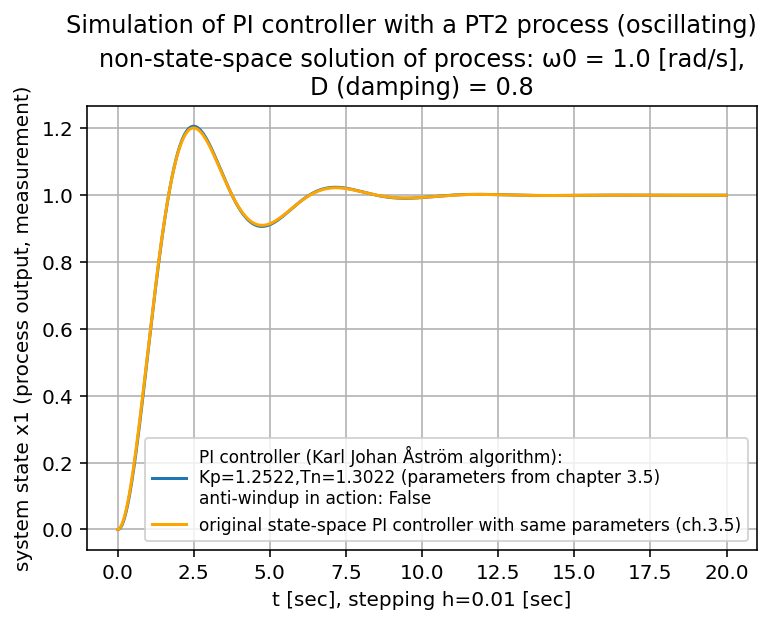
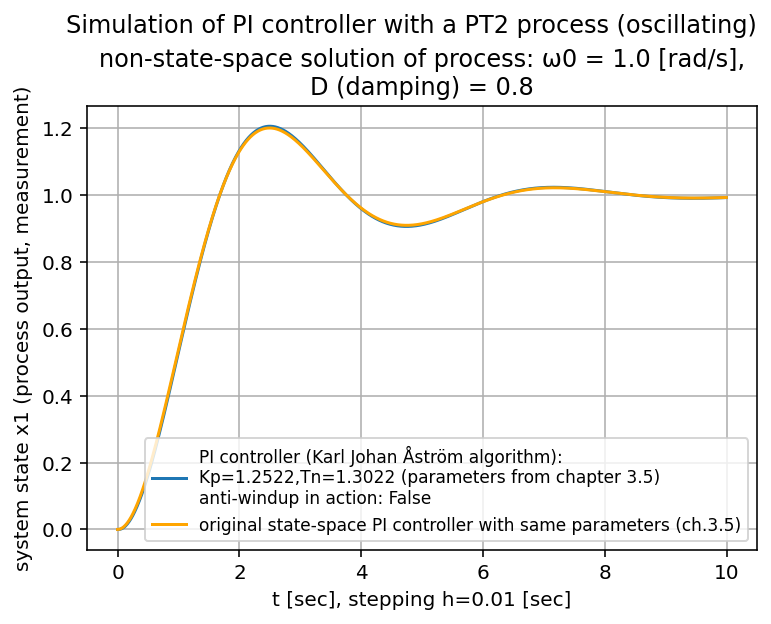
Add files via upload

diff --git a/systems,filters_and_feedback-controls/PID-control/PI control of an (undamped) 2nd order lag process/3.5e1_PI-control-loop_with_2nd_order_lag_process_non-state-space.py b/systems,filters_and_feedback-controls/PID-control/PI control of an (undamped) 2nd order lag process/3.5e1_PI-control-loop_with_2nd_order_lag_process_non-state-space.py
@@ -1,6 +1,6 @@
 # -*- coding: utf-8 -*-
 """
-2025-02-23
+2025-02-23/25
 
 3.5e1_PI-control-loop_with_2nd_order_lag_process_non-state-space.py
 
@@ -11,6 +11,8 @@ Based on programs:
 
 
 tests: OK!
+
+  absolute, maximum relative difference of Åström-PI controller - state-space solution: 0.865217%
 
 
 ideas:
@@ -52,10 +54,10 @@ Tn = 1.3022
 Tf = 0.2  # time constant of lowpass filter of 1st order (PT1) [sec]
 
 
-STEPS = 2000
+STEPS = 1000
 tstop = STEPS * h + tstart
 t = np.arange(tstart,tstop,h)
-x1 = np.zeros([STEPS])
+x1_KJA = np.zeros([STEPS])
 
 u = np.zeros([STEPS])
 e = np.zeros([STEPS])
@@ -87,7 +89,7 @@ x1_noise = 1.0 + np.random.normal(0.0, SIGMA, STEPS)
 # y(t) = measurement = process variable to be controlled
 # D-term: N for Td/N = Tf = time constant of PT1 filter, typically 8..20
 
-x1 = np.zeros([STEPS])  # measurement
+x1_KJA = np.zeros([STEPS])  # measurement
 
 I_KJA = np.zeros([STEPS])  # I-term of Karl Johan Åström-PID controller
 D_KJA = np.zeros([STEPS])  # D-term of Karl Johan Åström-PID controller
@@ -110,10 +112,10 @@ Tf_KJA = Tf*1.0
 
 for k in range(1,STEPS):
     # P-term:
-    P_KJA = Kp_KJA * (w_1 - x1[k])
+    P_KJA = Kp_KJA * (w_1 - x1_KJA[k])
     # D-term with derivative of measurement only:
     # D_KJA[k] = Tv_KJA/(Tv_KJA + Tf)\
-    #            * (D_KJA[k-1] - Kp_KJA*N*(x1[k] - x1[k-1]))
+    #            * (D_KJA[k-1] - Kp_KJA*N*(x1_KJA[k] - x1_KJA[k-1]))
 
     # controller output:
     u_KJA[k] = P_KJA + I_KJA[k]  # + D_KJA[k]
@@ -129,11 +131,11 @@ for k in range(1,STEPS):
         if ANTIWINDUPACTION is True:
             if ANTIWINDUP is False:
                 # control error which goes into the integrator of controller
-                control_error = w_1 - x1[k]
+                control_error = w_1 - x1_KJA[k]
             else:
                 control_error = 0.0  # no more control error in this case
         else:
-            control_error = w_1 - x1[k]
+            control_error = w_1 - x1_KJA[k]
 
         I_KJA[k+1] = I_KJA[k] + Kp_KJA*h/Tn*control_error
 
@@ -142,22 +144,22 @@ for k in range(1,STEPS):
         # Euler forward emulation of
         # process transfer function G(s) = b0 / (s**2 + a1*s + a0)
         # ...
-        x1[k+1] = h**2.0 * b0 * u_KJA[k-1]\
-                  + (2.0 - h*a1) * x1[k]\
-                  + (a1*h - a0 * h**2.0 - 1.0) * x1[k-1]
-        # x1[k+1] = x1[k+1] * x1_noise[k-1]
+        x1_KJA[k+1] = h**2.0 * b0 * u_KJA[k-1]\
+                  + (2.0 - h*a1) * x1_KJA[k]\
+                  + (a1*h - a0 * h**2.0 - 1.0) * x1_KJA[k-1]
+        # x1_KJA[k+1] = x1_KJA[k+1] * x1_KJA_noise[k-1]
 
         # transient disturbance:
         # if t_dist_start <= k <= t_dist_stop:
-            # x1[k+1] += DIST_VAL
+            # x1_KJA[k+1] += DIST_VAL
 
 
 
 # compare with the original state space solution from book's ch.3.5:
 #
-x1a = np.zeros([STEPS])
-x2a = np.zeros([STEPS])
-x3a = np.zeros([STEPS])
+x1ss = np.zeros([STEPS])
+x2ss = np.zeros([STEPS])
+x3ss = np.zeros([STEPS])
 
 def DIFF_EQU(x_1, x_2, x_3):
     '''
@@ -183,59 +185,60 @@ def DIFF_EQU(x_1, x_2, x_3):
 # system simulation loop:
 for k in range(1,STEPS):
     # using Runge–Kutta method:
-    x1_ = x1a[k-1]
-    x2_ = x2a[k-1]
-    x3_ = x3a[k-1]
+    x1_ = x1ss[k-1]
+    x2_ = x2ss[k-1]
+    x3_ = x3ss[k-1]
     f1_, f2_, f3_ = DIFF_EQU(x1_, x2_, x3_)
 
     k1 = h * f1_
     l1 = h * f2_
     m1 = h * f3_
-    x1_ = x1a[k-1] + k1 / 2.0
-    x2_ = x2a[k-1] + l1 / 2.0
-    x3_ = x3a[k-1] + m1 / 2.0
+    x1_ = x1ss[k-1] + k1 / 2.0
+    x2_ = x2ss[k-1] + l1 / 2.0
+    x3_ = x3ss[k-1] + m1 / 2.0
     f1_, f2_, f3_ = DIFF_EQU(x1_, x2_, x3_)
 
     k2 = h * f1_
     l2 = h * f2_
     m2 = h * f3_
-    x1_ = x1a[k-1] + k2 / 2.0
-    x2_ = x2a[k-1] + l2 / 2.0
-    x3_ = x3a[k-1] + m2 / 2.0
+    x1_ = x1ss[k-1] + k2 / 2.0
+    x2_ = x2ss[k-1] + l2 / 2.0
+    x3_ = x3ss[k-1] + m2 / 2.0
     f1_, f2_, f3_ = DIFF_EQU(x1_, x2_, x3_)
 
     k3 = h * f1_
     l3 = h * f2_
     m3 = h * f3_
-    x1_ = x1a[k-1] + k3 / 2.0
-    x2_ = x2a[k-1] + l3 / 2.0
-    x3_ = x3a[k-1] + m3 / 2.0
+    x1_ = x1ss[k-1] + k3 / 2.0
+    x2_ = x2ss[k-1] + l3 / 2.0
+    x3_ = x3ss[k-1] + m3 / 2.0
     f1_, f2_, f3_ = DIFF_EQU(x1_, x2_, x3_)
 
     k4 = h * f1_
     l4 = h * f2_
     m4 = h * f3_
-    x1_ = x1a[k-1] + (k1 + 2.0*k2 + 2.0*k3 + k4) / 6.0
-    x2_ = x2a[k-1] + (l1 + 2.0*l2 + 2.0*l3 + l4) / 6.0
-    x3_ = x3a[k-1] + (m1 + 2.0*m2 + 2.0*m3 + m4) / 6.0
+    x1_ = x1ss[k-1] + (k1 + 2.0*k2 + 2.0*k3 + k4) / 6.0
+    x2_ = x2ss[k-1] + (l1 + 2.0*l2 + 2.0*l3 + l4) / 6.0
+    x3_ = x3ss[k-1] + (m1 + 2.0*m2 + 2.0*m3 + m4) / 6.0
 
-    x1a[k] = x1_
-    x2a[k] = x2_
-    x3a[k] = x3_
+    x1ss[k] = x1_
+    x2ss[k] = x2_
+    x3ss[k] = x3_
 # end of compare with the original state space solution from book ch.3.5
 
 
-max_rel_diff = max(abs(x1-x1a))
+# KJ Åström-PI controller - original state-space solution:
+max_rel_diff_x1_KJA = max(abs(x1_KJA - x1ss))
 
 
 plt.suptitle('Simulation of PI controller with a PT2 process (oscillating)', y = 1.04)
 plt.title(f'non-state-space solution of process: ω0 = {omega0} [rad/s],\
 \nD (damping) = {D}', y = 1.0)
 
-# plt.plot(t,x1, label=f'PID controller (KJ Åström algo):\
+# plt.plot(t,x1_KJA, label=f'PID controller (KJ Åström algo):\
 # \nKp={Kp_KJA:.2f},Tn={Tn:.2f},Tv={Tv_KJA:.2f},Tf={Tf_KJA:.2f}')
 
-plt.plot(t,x1, label=f'PI controller (Karl Johan Åström algorithm):\
+plt.plot(t,x1_KJA, label=f'PI controller (Karl Johan Åström algorithm):\
 \nKp={Kp_KJA:.4f},Tn={Tn:.4f} (parameters from chapter 3.5)\
 \nanti-windup in action: {ANTIWINDUPACTION}')
 
@@ -249,12 +252,13 @@ plt.plot(t,x1, label=f'PI controller (Karl Johan Åström algorithm):\
 # plt.plot(t,I_KJA, label='variable for integral part of controller',\
 # linestyle=':', color="#1f77b4")  # matplotlib default plot color
 
-plt.plot(t,x1a, label="original state-space PI controller with same parameters (ch.3.5)", color = "orange")
+plt.plot(t,x1ss,label="original state-space PI controller with same parameters (ch.3.5)",\
+color = "orange")
 
-# plt.plot(t,x1-x1a, label=f'x1(t): difference between original state-space solution (ch.3.5)\
+# plt.plot(t,x1_KJA - x1ss, label=f'difference of state-space solution (ch.3.5)\
 # \nand non-state-space solution with Åström-PI controller\
 # \n+ Euler forward emulation of PT2 process\
-# \nabsolute, maximum relative difference to reference: {max_rel_diff:.2%}',\
+# \nabsolute, maximum relative difference: {max_rel_diff_x1_KJA:.2%}',\
 # color = "brown")
 
 plt.xlabel(f't [sec], stepping h={h} [sec]')
@@ -275,6 +279,9 @@ plt.show()
 # print("max(D_KJA)=",max(D_KJA))
 print("\nmin(u_KJA)=",min(u_KJA))
 print("max(u_KJA)=",max(u_KJA))
+
+print(f'\nabsolute, maximum relative difference of \
+Åström-PI controller - state-space solution: {max_rel_diff_x1_KJA:.6%}')
 
 
 # end of 3.5e1_PI-control-loop_with_2nd_order_lag_process_non-state-space.py
